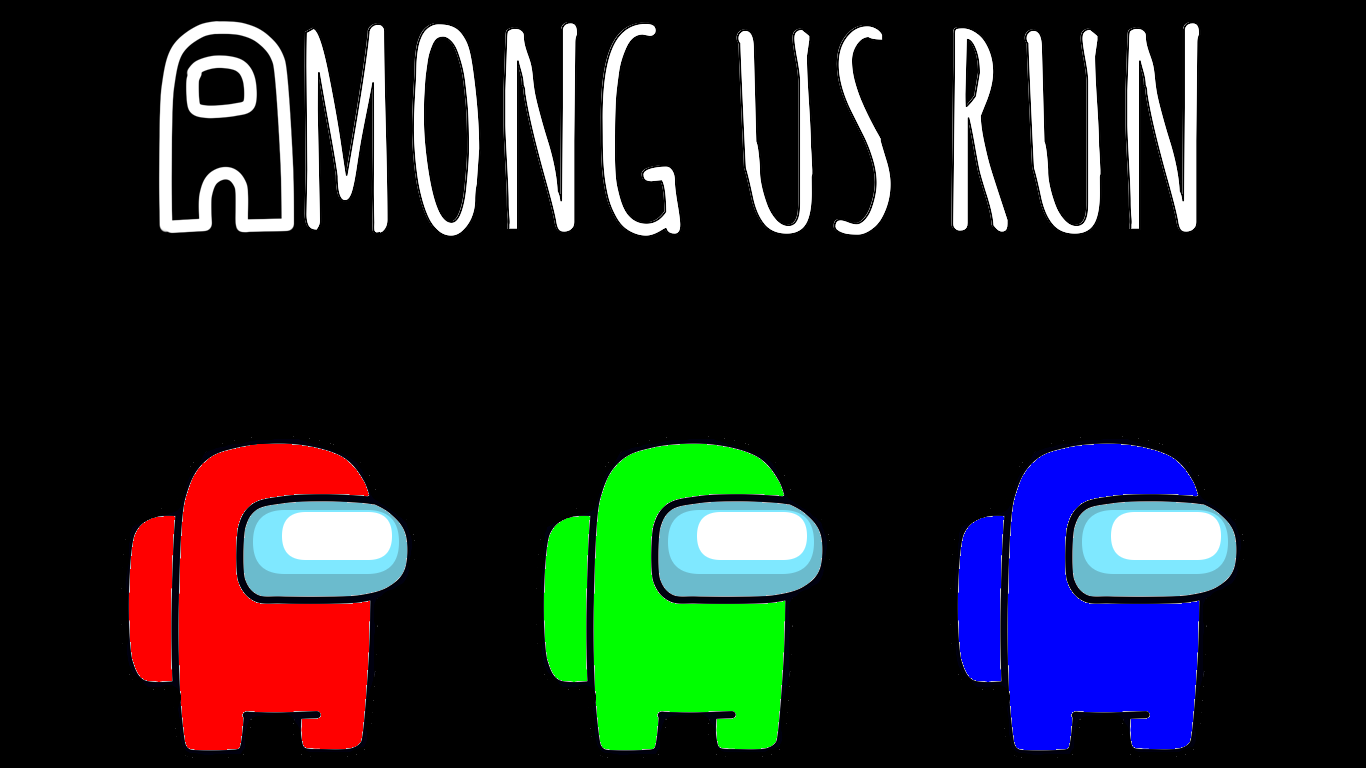
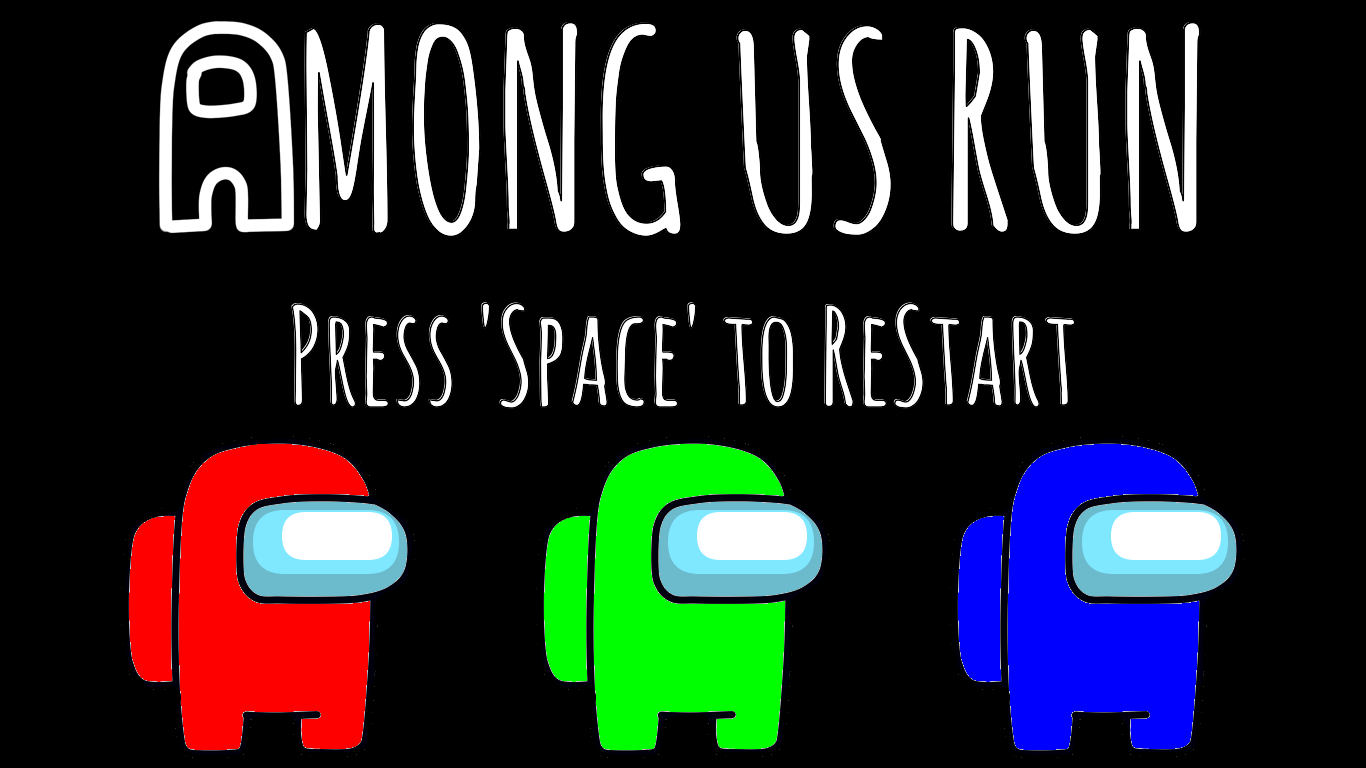
png텍스쳐매핑완료

Changed region(s): [[0.2152, 0.375, 0.7994, 0.5312]]

diff --git a/week12/Scene.hpp b/week12/Scene.hpp
@@ -24,12 +24,7 @@ using namespace std;
 
 namespace RunGame {
 	static bool isSpacePressed;
-	static bool k_Space;
 	static bool isEnterPressed;
-	static bool k_Uarrow;
-	static bool k_Rarrow;
-	static bool k_Darrow;
-	static bool k_Larrow;
 
 	enum GameState {
 		GameStart,
@@ -45,6 +40,8 @@ namespace RunGame {
 		bool pressed_GameStart;
 		bool isSTOP;
 		int score;
+		int drawindex;
+		int drawcounter;
 
 		Player *player = new Player();
 		Ground* ground1 = new Ground();
@@ -81,6 +78,7 @@ namespace RunGame {
 			}
 		}
 		void GameStart_Render() {
+			glEnable(GL_TEXTURE_2D);
 			glBindTexture(GL_TEXTURE_2D, textures[0]);
 			glBegin(GL_QUADS);
 			glTexCoord2f(0.0f, 0.0f); glVertex2f(-1.0f, -1.0f);
@@ -106,6 +104,8 @@ namespace RunGame {
 			for (int i = 0; i < 3; i++) {
 				block[i]->clear();
 			}
+
+			drawindex = 3;
 
 			block[0]->setblock();
 			framecount = 0;
@@ -147,6 +147,12 @@ namespace RunGame {
 					sun->speedup();
 					score += 10;
 				}
+				if (framecount % 5 == 4) {
+					drawindex++;
+					if (drawindex == 7) {
+						drawindex = 3;
+					}
+				}
 				ground1->move();
 				ground2->move();
 				cloud1->move();
@@ -180,7 +186,7 @@ namespace RunGame {
 				}
 			}
 
-			player->Draw();
+			player->Draw(drawindex);
 		}
 
 		void GameOver_init() {
@@ -202,18 +208,13 @@ namespace RunGame {
 		}
 		void GameOver_Render() {
 			glColor4f(0.5, 0.5, 0.5, 1);
-			//glEnable(GL_TEXTURE_2D);
-			//glTexEnvf(GL_TEXTURE_ENV, GL_TEXTURE_ENV_MODE, GL_DECAL);
-			//glBindTexture(GL_TEXTURE_2D, textGameStart);
+			glEnable(GL_TEXTURE_2D);
+			glBindTexture(GL_TEXTURE_2D, textures[1]);
 			glBegin(GL_QUADS);
-			//glTexCoord2f(0.0, 0.0); 
-			glVertex3f(-1.0, -1.0, 0);
-			//glTexCoord2f(1.0, 0.0); 
-			glVertex3f(1.0, -1.0, 0);
-			//glTexCoord2f(1.0, 1.0);
-			glVertex3f(1.0, 1.0, 0);
-			//glTexCoord2f(0.0, 1.0); 
-			glVertex3f(-1.0, 1.0, 0);
+			glTexCoord2f(0.0f, 0.0f); glVertex2f(-1.0f, -1.0f);
+			glTexCoord2f(1.0f, 0.0f); glVertex2f(1.0f, -1.0f);
+			glTexCoord2f(1.0f, 1.0f); glVertex2f(1.0f, 1.0f);
+			glTexCoord2f(0.0f, 1.0f); glVertex2f(-1.0f, 1.0f);
 			glEnd();
 		}
 

diff --git a/week12/texturemappin.hpp b/week12/texturemappin.hpp
@@ -9,7 +9,7 @@
 
 using namespace std;
 
-static GLuint textures[2];
+static GLuint textures[7];
 
 GLuint loadTexture(const char* filename, int& width, int& height) {
     stbi_set_flip_vertically_on_load(true);
@@ -18,10 +18,16 @@ GLuint loadTexture(const char* filename, int& width, int& height) {
         std::cerr << "Failed to load image: " << filename << std::endl;
         return 0;
     }
-
+    cout << filename << endl;
     GLuint texture;
     glGenTextures(1, &texture);
     glBindTexture(GL_TEXTURE_2D, texture);
+
+    glTexParameteri(GL_TEXTURE_2D, GL_TEXTURE_WRAP_S, GL_REPEAT);
+    glTexParameteri(GL_TEXTURE_2D, GL_TEXTURE_WRAP_T, GL_REPEAT);
+    glTexParameteri(GL_TEXTURE_2D, GL_TEXTURE_MIN_FILTER, GL_LINEAR);
+    glTexParameteri(GL_TEXTURE_2D, GL_TEXTURE_MAG_FILTER, GL_LINEAR);
+
     glTexImage2D(GL_TEXTURE_2D, 0, GL_RGBA, width, height, 0, GL_RGBA, GL_UNSIGNED_BYTE, data);
 
     stbi_image_free(data);
@@ -30,12 +36,17 @@ GLuint loadTexture(const char* filename, int& width, int& height) {
 }
 
 void initialize_texture() {
-    string imageFiles[2] = {
+    string imageFiles[7] = {
         "GameStart.png",
-        "GameEnd.png"
+        "GameEnd.png",
+        "s1Among.png",
+        "s2Among.png",
+        "s3Among.png",
+        "s4Among.png",
+        "s5Among.png"
     };
 
-    for (int i = 0; i < 2; i++) {
+    for (int i = 0; i < 7; i++) {
         int width = 1366, height = 768;
         textures[i] = loadTexture(imageFiles[i].c_str(), width, height);
     }
